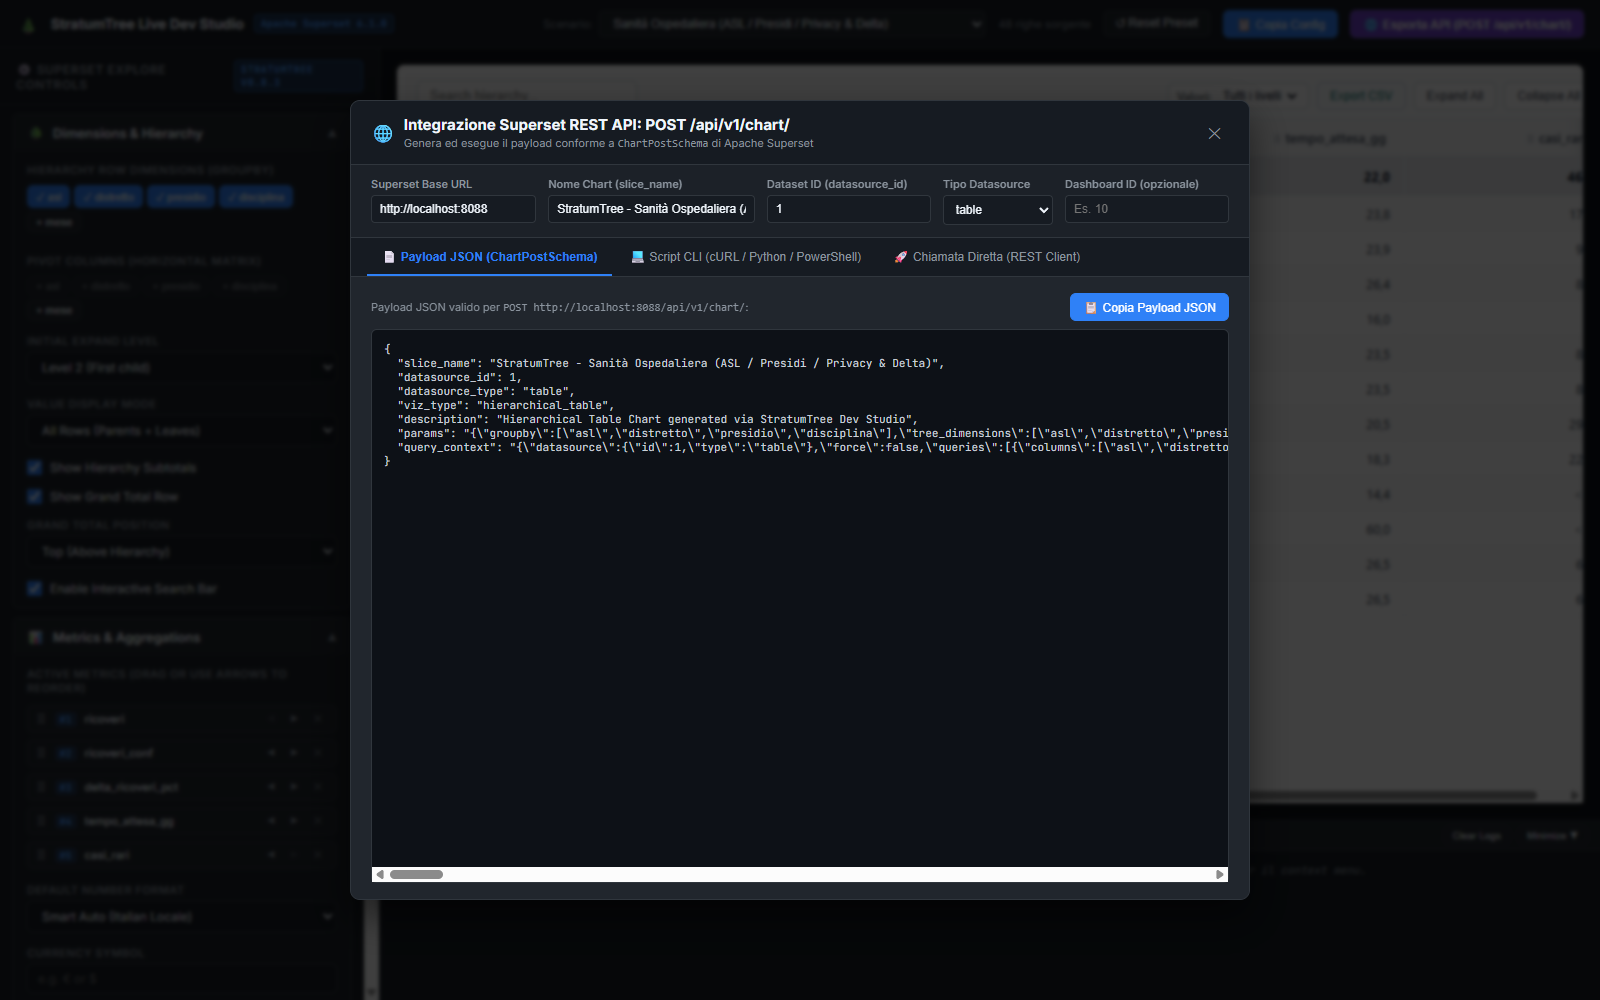
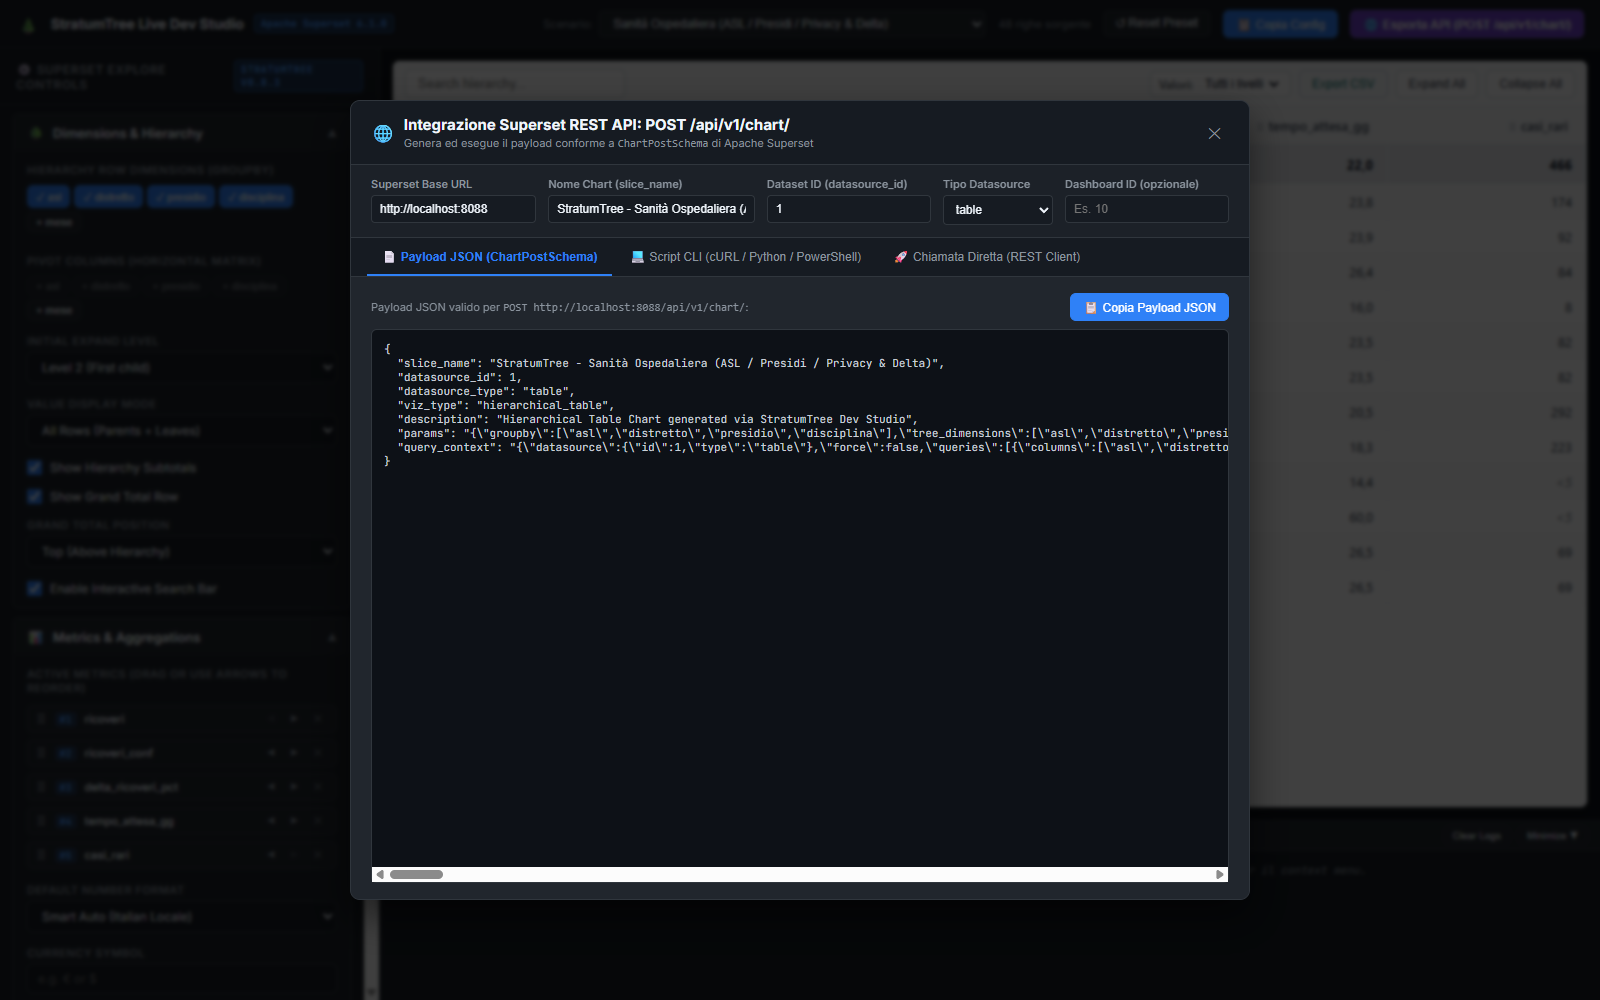
fix(layout): viewport-constrained scrollbars and high-contrast styling

diff --git a/dev-studio/src/App.tsx b/dev-studio/src/App.tsx
@@ -1,4 +1,4 @@
-import React, { useState, useMemo, useCallback } from 'react';
+import React, { useState, useMemo, useCallback, useRef, useEffect } from 'react';
 import transformProps from '../../src/plugin/transformProps';
 import HierarchicalTable from '../../src/components/HierarchicalTable';
 import '../../src/components/HierarchicalTable.css';
@@ -139,13 +139,35 @@ export default function App() {
     return Object.keys(scenario.data[0]).filter((k) => typeof scenario.data[0][k] === 'number');
   }, [scenario.data]);
 
+  const canvasRef = useRef<HTMLDivElement>(null);
+  const [canvasDimensions, setCanvasDimensions] = useState<{ width: number; height: number }>({
+    width: 1200,
+    height: 600,
+  });
+
+  useEffect(() => {
+    if (!canvasRef.current) return;
+    const updateSize = () => {
+      if (canvasRef.current) {
+        const { clientWidth, clientHeight } = canvasRef.current;
+        if (clientWidth > 0 && clientHeight > 0) {
+          setCanvasDimensions({ width: clientWidth, height: clientHeight });
+        }
+      }
+    };
+    updateSize();
+    const observer = new ResizeObserver(updateSize);
+    observer.observe(canvasRef.current);
+    return () => observer.disconnect();
+  }, []);
+
   // Run transformProps pipeline with timing
   const { transformedProps, execTimeMs, error } = useMemo(() => {
     const t0 = performance.now();
     try {
       const props = transformProps({
-        width: 1200,
-        height: 700,
+        width: canvasDimensions.width,
+        height: canvasDimensions.height,
         formData,
         rawFormData: formData,
         queriesData: [{ data: scenario.data }],
@@ -233,8 +255,12 @@ export default function App() {
                 <p style={{ marginTop: '8px' }}>{error}</p>
               </div>
             ) : transformedProps ? (
-              <div className="chart-canvas">
-                <HierarchicalTable {...transformedProps} />
+              <div ref={canvasRef} className="chart-canvas">
+                <HierarchicalTable
+                  {...transformedProps}
+                  width={canvasDimensions.width}
+                  height={canvasDimensions.height}
+                />
               </div>
             ) : (
               <div>Caricamento tabella...</div>

diff --git a/src/components/HierarchicalTable.css b/src/components/HierarchicalTable.css
@@ -106,28 +106,29 @@
   max-height: 100%;
   max-width: 100%;
   scrollbar-width: thin;
-  scrollbar-color: #cbd5e1 #f1f5f9;
+  scrollbar-color: #94a3b8 #f1f5f9;
   -webkit-overflow-scrolling: touch;
 }
 
 /* Chrome, Edge, Safari Webkit scrollbar */
 .table-scroll-wrapper::-webkit-scrollbar {
-  width: 8px;
-  height: 8px;
+  width: 10px;
+  height: 10px;
 }
 
 .table-scroll-wrapper::-webkit-scrollbar-track {
   background: #f1f5f9;
-  border-radius: 4px;
+  border-radius: 6px;
 }
 
 .table-scroll-wrapper::-webkit-scrollbar-thumb {
-  background: #cbd5e1;
-  border-radius: 4px;
+  background: #94a3b8;
+  border-radius: 6px;
+  border: 2px solid #f1f5f9;
 }
 
 .table-scroll-wrapper::-webkit-scrollbar-thumb:hover {
-  background: #94a3b8;
+  background: #64748b;
 }
 
 .table-scroll-wrapper::-webkit-scrollbar-corner {

diff --git a/dev-studio/src/studio.css b/dev-studio/src/studio.css
@@ -252,22 +252,28 @@ body {
 
 .chart-wrapper {
   flex: 1;
-  overflow: auto;
-  padding: 16px;
+  min-height: 0;
+  min-width: 0;
+  overflow: hidden;
+  padding: 12px;
   display: flex;
   flex-direction: column;
 }
 
 .chart-canvas {
   flex: 1;
+  min-height: 0;
+  min-width: 0;
   background: #ffffff;
   color: #212529;
   border: 1px solid var(--border-color);
   border-radius: 8px;
-  padding: 8px;
-  overflow: auto;
-  min-height: 400px;
+  padding: 0;
+  overflow: hidden;
+  display: flex;
+  flex-direction: column;
   box-shadow: 0 4px 12px rgba(0, 0, 0, 0.3);
+  position: relative;
 }
 
 /* Diagnostics & Event Drawer */

diff --git a/dev-studio/src/components/ExploreControlPanel.tsx b/dev-studio/src/components/ExploreControlPanel.tsx
@@ -30,7 +30,7 @@ export const ExploreControlPanel: React.FC<ExploreControlPanelProps> = ({
     <div className="studio-sidebar">
       <div className="sidebar-header">
         <span>⚙ Superset Explore Controls</span>
-        <span className="studio-badge">StratumTree v0.8.3</span>
+        <span className="studio-badge">StratumTree v0.8.4</span>
       </div>
 
       <div className="sidebar-content">

diff --git a/CHANGELOG.md b/CHANGELOG.md
@@ -5,6 +5,14 @@ All notable changes to this project will be documented in this file.
 The format is based on [Keep a Changelog](https://keepachangelog.com/en/1.1.0/),
 and this project adheres to [Semantic Versioning](https://semver.org/spec/v2.0.0.html).
 
+## [0.8.4] - 2026-10-18
+### Added
+- **Responsive Viewport-Constrained Sizing**: Bound chart dimensions directly to the live viewport container in Dev Studio via `ResizeObserver`, ensuring `transformProps` receives exact pixel width and height without manual window resize events.
+- **High-Contrast Bidirectional Scrollbars**: Enhanced native scrollbars in `src/components/HierarchicalTable.css` with 10px width and height, `#94a3b8` thumb with 2px `#f1f5f9` border padding, `#64748b` hover state, and Firefox `scrollbar-color: #94a3b8 #f1f5f9` for instant visual discovery across light and dark themes.
+
+### Fixed
+- **Dev Studio Scrollbar Clipping and Double Scrolling**: Removed unconstrained `overflow: auto` and hardcoded 1200x700px dimensions from `.chart-wrapper` and `.chart-canvas` in `studio.css`, locking scrolling exclusively to the authoritative `.table-scroll-wrapper` container. Both horizontal and vertical scrollbars now stay permanently visible and pinned within the visible viewport above the diagnostics drawer.
+
 ## [0.8.3] - 2026-10-18
 ### Added
 - **Natural Time Grain Auto-Detection (`detectNaturalGrain`)**: Pure deterministic utility in `src/utils/timeComparison.ts` that automatically infers the natural temporal granularity (`year`, `quarter`, `month`, `week`, `day`) from active pivot period keys.
